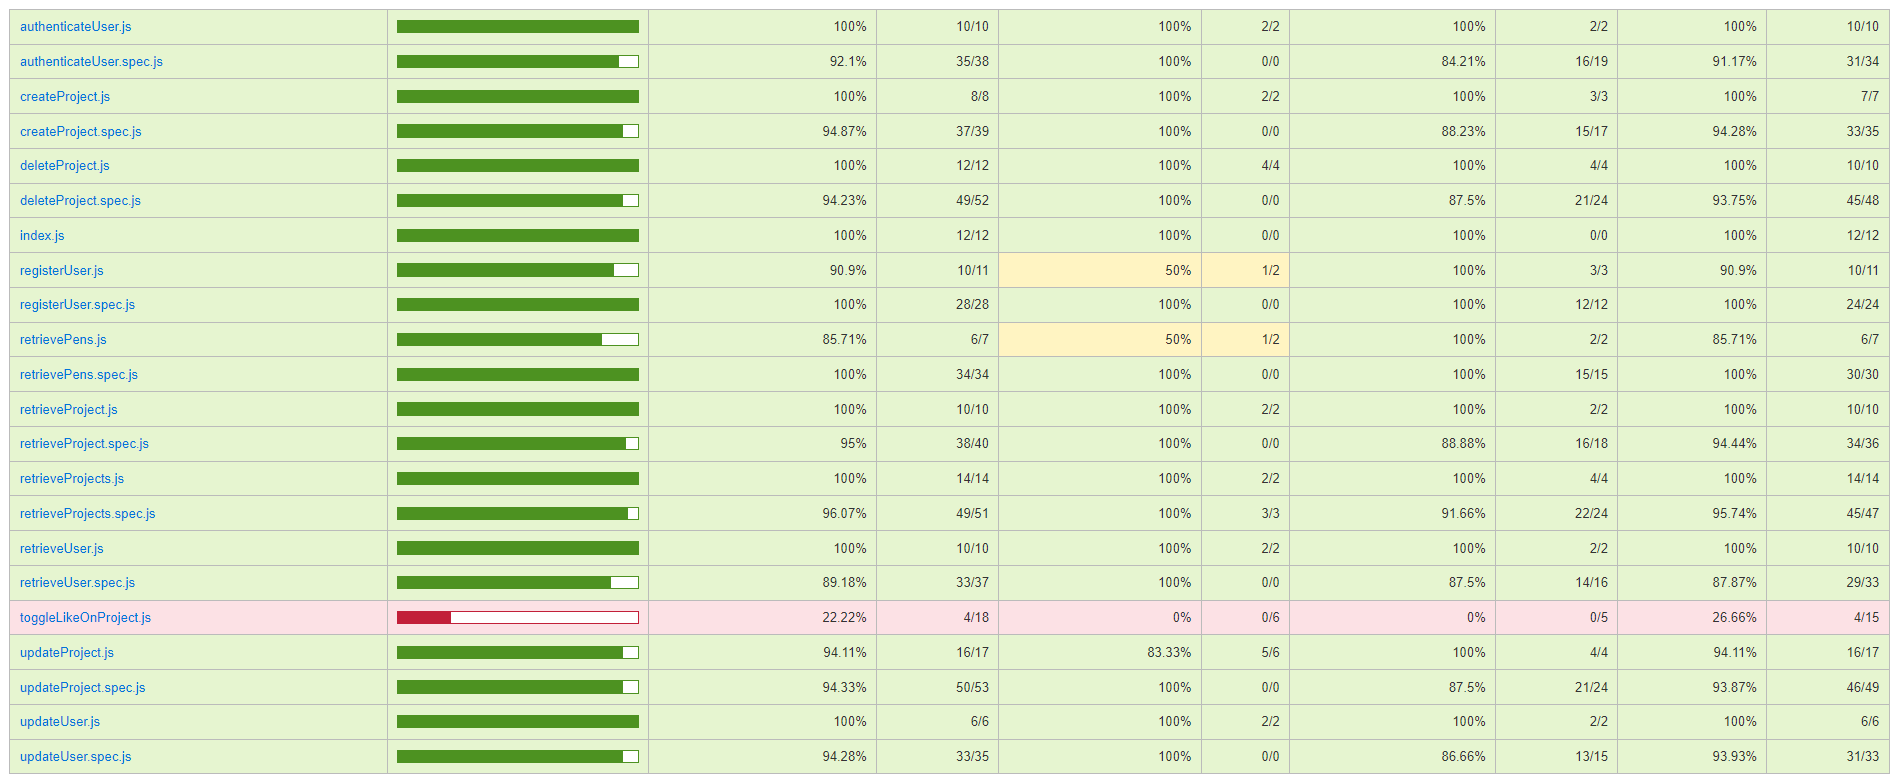
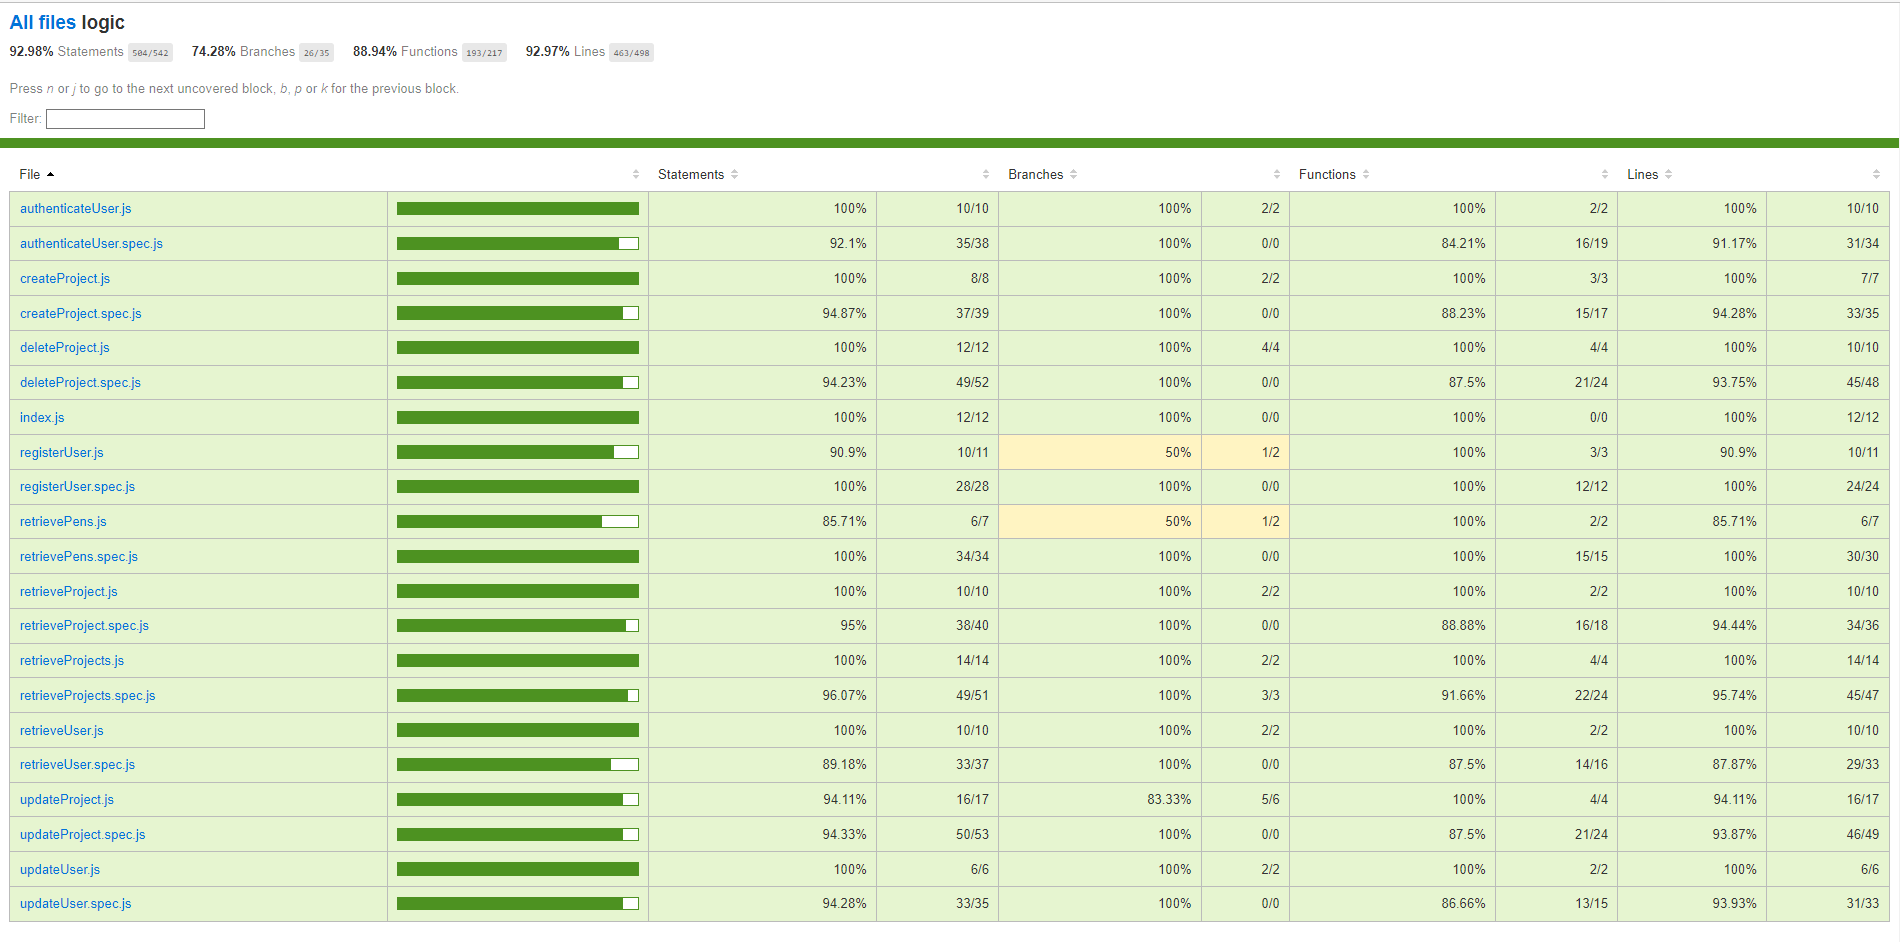
readme

diff --git a/staff/abdou-bousiyd/proyecto/app-client/src/components/Dashboards/index.jsx b/staff/abdou-bousiyd/proyecto/app-client/src/components/Dashboards/index.jsx
@@ -157,7 +157,7 @@ const Dashboards = () => {
               <div className="Dash__Container__Items">
                 <div className="Dash__Container__Item">
                   <h1 className="Dash__Container__Item__Title" onClick={() => previewProject(id)}>
-                  {/* <a className="Dash__Container__Item__Author">Author: {name}</a> */}
+                  {/* <h1 className="Dash__Container__Item__Author">{name}</h1> */}
                     <span>{title}</span>
                   </h1>
                   {editDashId === id && (

diff --git a/staff/abdou-bousiyd/proyecto/app-client/public/index.html b/staff/abdou-bousiyd/proyecto/app-client/public/index.html
@@ -2,7 +2,7 @@
 <html lang="en">
   <head>
     <meta charset="utf-8" />
-    <link rel="icon" href="%PUBLIC_URL%/favicon.ico" />
+    <link rel="icon" href="https://www.svgrepo.com/show/327338/logo-apple-ar.svg" />
     <meta name="viewport" content="width=device-width, initial-scale=1" />
     <meta name="theme-color" content="#000000" />
     <meta

diff --git a/staff/abdou-bousiyd/proyecto/app-client/src/components/Project/index.jsx b/staff/abdou-bousiyd/proyecto/app-client/src/components/Project/index.jsx
@@ -1,6 +1,6 @@
 import React, { useState, useEffect } from "react";
 import JSZip from "jszip";
-import { useNavigate,  useParams  } from "react-router-dom";
+import { useParams  } from "react-router-dom";
 import Split from "react-split-grid";
 import Editor from "@monaco-editor/react";
 import { emmetHTML, emmetCSS } from "emmet-monaco-es";

diff --git a/staff/abdou-bousiyd/proyecto/doc/README.md b/staff/abdou-bousiyd/proyecto/doc/README.md
@@ -53,7 +53,6 @@ También permite descargar el código escrito en un formato zip, y personalizar 
 - id (ObjectId)
 - username (String)
 - name (String)
-- email (String)
 - password (String)
 - favProjects ([ObjectId (Project)])
 
@@ -71,7 +70,7 @@ También permite descargar el código escrito en un formato zip, y personalizar 
 - text (String)
 - type (String, enum ['html', 'css', 'js'])
 
-#### File
+#### Testing
 
 ![](./img/coverage.png)
 
